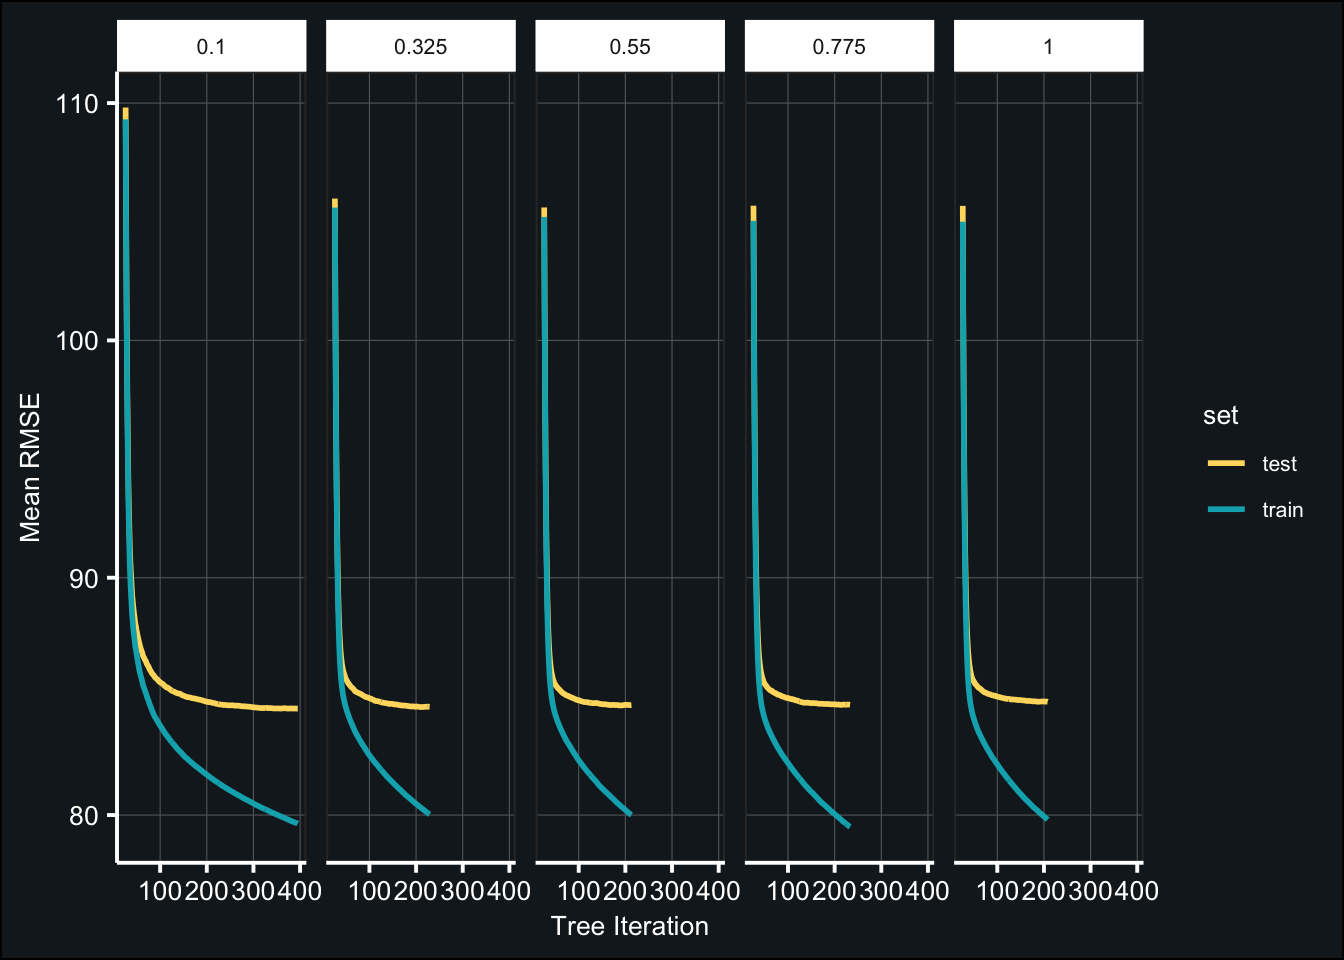
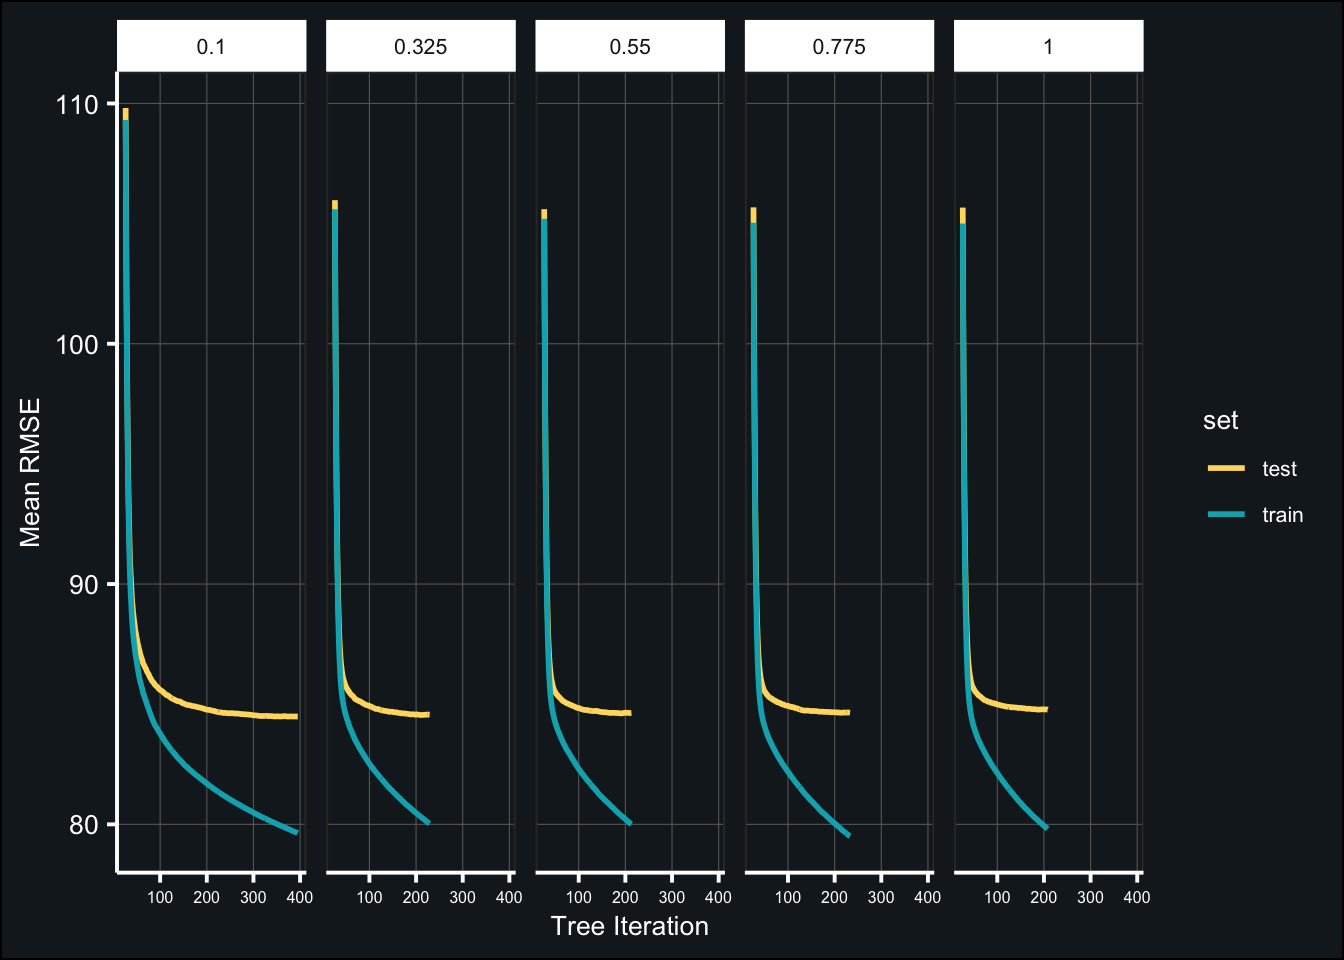
final boosted tree

diff --git a/page4_xgboost.html b/page4_xgboost.html
@@ -11,7 +11,7 @@
 
 
 
-<title>Tensor Flo Ridas: A Journey in Machine Learning</title>
+<title>Tensor Flo Ridas: A Journey in ML</title>
 
 <script src="site_libs/jquery-1.11.3/jquery.min.js"></script>
 <meta name="viewport" content="width=device-width, initial-scale=1" />
@@ -435,7 +435,7 @@ div.tocify {
 
 
 
-<h1 class="title toc-ignore">Tensor Flo Ridas: A Journey in Machine Learning</h1>
+<h1 class="title toc-ignore">Tensor Flo Ridas: A Journey in ML</h1>
 
 </div>
 
@@ -514,8 +514,8 @@ fit_def_xgb &lt;- xgb.cv(
 )
 
 time_default &lt;- toc()</code></pre>
-<pre><code>## 30.311 sec elapsed</code></pre>
-<p>Note the cross-validated boosted tree model with default parameters took about 40.456 s. Will proceed with caution.</p>
+<pre><code>## 31.23 sec elapsed</code></pre>
+<p>Note the cross-validated boosted tree model with default parameters took about 43.022 s. Will proceed with caution.</p>
 <p>Below are the mean train and test metrics from each iteration (i.e. tree).</p>
 <pre class="r"><code>fit_def_xgb$evaluation_log</code></pre>
 <div data-pagedtable="false">
@@ -572,7 +572,7 @@ fit_tune_trees &lt;- map(grid_tree$num_tree, ~ {
  ) 
 })
 toc()</code></pre>
-<pre><code>## 356.186 sec elapsed</code></pre>
+<pre><code>## 351.981 sec elapsed</code></pre>
 <p>Below are the results of the tuned models:</p>
 <pre class="r"><code>fit_tune_tree_log &lt;- map_df(fit_tune_trees, ~{
   .x$evaluation_log %&gt;% 
@@ -591,7 +591,8 @@ ggplot(fit_tune_tree_log, aes(iter, mean)) +
   labs(x = &quot;Tree Iteration&quot;, y = &quot;Mean RMSE&quot;) +
   scale_color_manual(values = c(&quot;#FFDB6D&quot;, &quot;#00AFBB&quot;)) +
   theme_407() +
-  facet_grid(~num_tree) </code></pre>
+  facet_grid(~num_tree) +
+  theme(axis.text.x = element_text(size = 8))</code></pre>
 <p><img src="page4_xgboost_files/figure-html/unnamed-chunk-9-1.png" width="672" /></p>
 <pre class="r"><code>(tune_tree_best &lt;- map_df(fit_tune_trees, ~{
   .x$evaluation_log %&gt;% 
@@ -629,7 +630,7 @@ fit_tune_learn1 &lt;- map(grid_learn$learn_rate, ~ {
  ) 
 })
 toc()</code></pre>
-<pre><code>## 511.272 sec elapsed</code></pre>
+<pre><code>## 512.223 sec elapsed</code></pre>
 <p>Below are the results of the tuned models:</p>
 <pre class="r"><code>fit_tune_learn1_log &lt;- map_df(fit_tune_learn1, ~{
   .x$evaluation_log %&gt;% 
@@ -649,7 +650,8 @@ ggplot(fit_tune_learn1_log, aes(iter, mean)) +
   labs(x = &quot;Tree Iteration&quot;, y = &quot;Mean RMSE&quot;) +
   scale_color_manual(values = c(&quot;#FFDB6D&quot;, &quot;#00AFBB&quot;)) +
   theme_407() +
-  facet_wrap(~learn_rate, nrow = 2)</code></pre>
+  facet_wrap(~learn_rate, nrow = 2) +
+  theme(axis.text.x = element_text(size = 6))</code></pre>
 <p><img src="page4_xgboost_files/figure-html/unnamed-chunk-12-1.png" width="672" /></p>
 <pre class="r"><code>(tune_learn1_best &lt;- map_df(fit_tune_learn1, ~{
   .x$evaluation_log %&gt;% 
@@ -671,7 +673,7 @@ ggplot(fit_tune_learn1_log, aes(iter, mean)) +
 <li>use optimal number of trees</li>
 <li>use optimal learning rate</li>
 </ul>
-<p>Defined as <code>max_depth</code> in <code>XGBoost</code></p>
+<p>Defined as <code>max_depth</code> in <code>XGBoost</code> This parameter determines the maximum number of splits for each tree</p>
 <pre class="r"><code>grid_depth &lt;- expand.grid(tree_depth = seq(1,6))
 
 tic()
@@ -689,7 +691,7 @@ fit_tune_depth &lt;- map(grid_depth$tree_depth, ~ {
  ) 
 })
 toc()</code></pre>
-<pre><code>## 625.084 sec elapsed</code></pre>
+<pre><code>## 631.986 sec elapsed</code></pre>
 <p>Below are the results of the tuned models:</p>
 <pre class="r"><code>fit_tune_depth_log &lt;- map_df(fit_tune_depth, ~{
   .x$evaluation_log %&gt;% 
@@ -706,7 +708,8 @@ ggplot(fit_tune_depth_log, aes(iter, mean)) +
   labs(x = &quot;Tree Iteration&quot;, y = &quot;Mean RMSE&quot;) +
   scale_color_manual(values = c(&quot;#FFDB6D&quot;, &quot;#00AFBB&quot;)) +
   theme_407() +
-  facet_grid(~tree_depth)</code></pre>
+  facet_grid(~tree_depth) +
+  theme(axis.text.x = element_text(size = 6))</code></pre>
 <p><img src="page4_xgboost_files/figure-html/unnamed-chunk-15-1.png" width="672" /></p>
 <pre class="r"><code>(tune_depth_best &lt;- map_df(fit_tune_depth, ~{
   .x$evaluation_log %&gt;% 
@@ -729,7 +732,7 @@ ggplot(fit_tune_depth_log, aes(iter, mean)) +
 <li>use optimal learning rate</li>
 <li>use optimal tree depth</li>
 </ul>
-<p>Defined as <code>colsample_bytree</code> in <code>XGBoost</code> This parameter will tune the number of features to sample for each new tree, similar to <code>mtry</code> in <code>tidymodels</code>.</p>
+<p>Defined as <code>colsample_bytree</code> in <code>XGBoost</code> This parameter determines the number of features to sample for each new tree, similar to <code>mtry</code> in <code>tidymodels</code>.</p>
 <pre class="r"><code>grid_randcol &lt;- expand.grid(colsample = seq(.1, 1, length.out = 5))
 
 tic()
@@ -748,7 +751,7 @@ fit_tune_randcol &lt;- map(grid_randcol$colsample, ~ {
  ) 
 })
 toc()</code></pre>
-<pre><code>## 357.425 sec elapsed</code></pre>
+<pre><code>## 360.041 sec elapsed</code></pre>
 <p>Below are the results of the tuned models:</p>
 <pre class="r"><code>fit_tune_randcol_log &lt;- map_df(fit_tune_randcol, ~{
   .x$evaluation_log %&gt;% 
@@ -767,7 +770,8 @@ ggplot(fit_tune_randcol_log, aes(iter, mean)) +
   labs(x = &quot;Tree Iteration&quot;, y = &quot;Mean RMSE&quot;) +
   scale_color_manual(values = c(&quot;#FFDB6D&quot;, &quot;#00AFBB&quot;)) +
   theme_407() +
-  facet_grid(~col_sample)</code></pre>
+  facet_grid(~col_sample) +
+  theme(axis.text.x = element_text(size = 6))</code></pre>
 <p><img src="page4_xgboost_files/figure-html/unnamed-chunk-18-1.png" width="672" /></p>
 <pre class="r"><code>(tune_randcol_best &lt;- map_df(fit_tune_randcol, ~{
   .x$evaluation_log %&gt;% 
@@ -808,7 +812,7 @@ fit_tune_learn2 &lt;- map(grid_learn$learn_rate, ~ {
  ) 
 })
 toc()</code></pre>
-<pre><code>## 577.876 sec elapsed</code></pre>
+<pre><code>## 586.638 sec elapsed</code></pre>
 <p>Below are the results of the tuned models:</p>
 <pre class="r"><code>fit_tune_learn2_log &lt;- map_df(fit_tune_learn2, ~{
   .x$evaluation_log %&gt;% 
@@ -827,7 +831,8 @@ ggplot(fit_tune_learn2_log, aes(iter, mean)) +
   labs(x = &quot;Tree Iteration&quot;, y = &quot;Mean RMSE&quot;) +
   scale_color_manual(values = c(&quot;#FFDB6D&quot;, &quot;#00AFBB&quot;)) +
   theme_407() +
-  facet_grid(~learn_rate)</code></pre>
+  facet_grid(~learn_rate) +
+  theme(axis.text.x = element_text(size = 8))</code></pre>
 <p><img src="page4_xgboost_files/figure-html/unnamed-chunk-21-1.png" width="672" /></p>
 <pre class="r"><code>(tune_learn2_best &lt;- map_df(fit_tune_learn2, ~{
   .x$evaluation_log %&gt;% 
@@ -848,17 +853,22 @@ ggplot(fit_tune_learn2_log, aes(iter, mean)) +
 <h1>Fit the final model</h1>
 <div id="finalize-model" class="section level2">
 <h2>Finalize model</h2>
-<pre class="r"><code>fit_final_xgb &lt;- xgboost(
+<pre class="r"><code>tic()
+
+fit_final_xgb &lt;- xgboost(
    data = features,
    label = outcome,
    nrounds = best_numtrees, # number of trees
    objective = &quot;reg:squarederror&quot;,
    early_stopping_rounds = 20, 
-   #params = list(eta = best_learnrate2,
-  #               max_depth = best_depth,
-   #              colsample_bytree = best_colsample),
+   params = list(eta = best_learnrate2,
+                 max_depth = best_depth,
+                 colsample_bytree = best_colsample),
    verbose = 0
- ) </code></pre>
+ ) 
+
+toc()</code></pre>
+<pre><code>## 19.416 sec elapsed</code></pre>
 </div>
 <div id="preprocess-test-split" class="section level2">
 <h2>Preprocess test split</h2>
@@ -888,14 +898,14 @@ pred_tbl &lt;- tibble(predictions, test_outcome)
 (test_rmse &lt;- yardstick::rmse(pred_tbl, predictions, test_outcome))</code></pre>
 <div data-pagedtable="false">
 <script data-pagedtable-source type="application/json">
-{"columns":[{"label":[".metric"],"name":[1],"type":["chr"],"align":["left"]},{"label":[".estimator"],"name":[2],"type":["chr"],"align":["left"]},{"label":[".estimate"],"name":[3],"type":["dbl"],"align":["right"]}],"data":[{"1":"rmse","2":"standard","3":"99.04497"}],"options":{"columns":{"min":{},"max":[10]},"rows":{"min":[10],"max":[10]},"pages":{}}}
+{"columns":[{"label":[".metric"],"name":[1],"type":["chr"],"align":["left"]},{"label":[".estimator"],"name":[2],"type":["chr"],"align":["left"]},{"label":[".estimate"],"name":[3],"type":["dbl"],"align":["right"]}],"data":[{"1":"rmse","2":"standard","3":"85.75623"}],"options":{"columns":{"min":{},"max":[10]},"rows":{"min":[10],"max":[10]},"pages":{}}}
   </script>
 </div>
 </div>
 </div>
 <div id="final-thoughts" class="section level1">
 <h1>Final thoughts</h1>
-<p>The final RMSE on the assessment set was relatively good at 99.04. However, this isn’t far off from the mean RMSE when cross-validating a boosted tree model using the default parameters, 85.34. This finding suggests tuning did not add any predictive power to our model. Given that each tuning step took about 3 - 10 minutes, the change in RMSE does not seem worth the additional effort. Overall, though the boosted tree model demonstrated low variance and had relatively good predictive power, it was computationally inefficient.</p>
+<p>The final RMSE on the assessment set was relatively good at 85.76. However, this isn’t far off from the mean RMSE when cross-validating a boosted tree model using the default parameters, 85.34. This finding suggests tuning did not add any predictive power to our model. Given that each tuning step took about 3 - 10 minutes, the change in RMSE does not seem worth the additional effort. There are a number of other hyperparameters that can be tuned in boosted tree models, including minimum n for each node in a tree or thresholding the change in cost function before stopping a tree. It is possible these additional parameters would have improved the performance of our model. Overall, though the boosted tree model demonstrated low variance and had relatively good predictive power, it was computationally inefficient in terms of how many hyperparameters can be tuned and how long it takes to tune.</p>
 <hr />
 </div>
 
@@ -950,7 +960,7 @@ $(document).ready(function ()  {
 
     // establish options
     var options = {
-      selectors: "h1",
+      selectors: "h1,h2",
       theme: "bootstrap3",
       context: '.toc-content',
       hashGenerator: function (text) {
